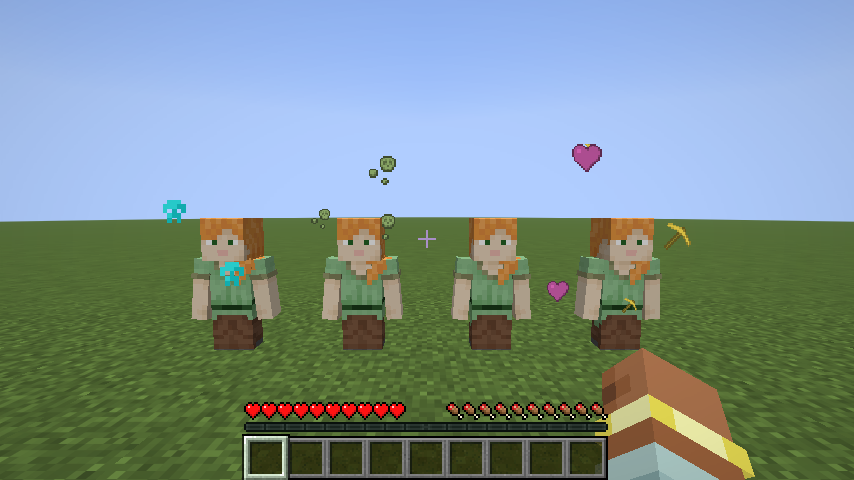
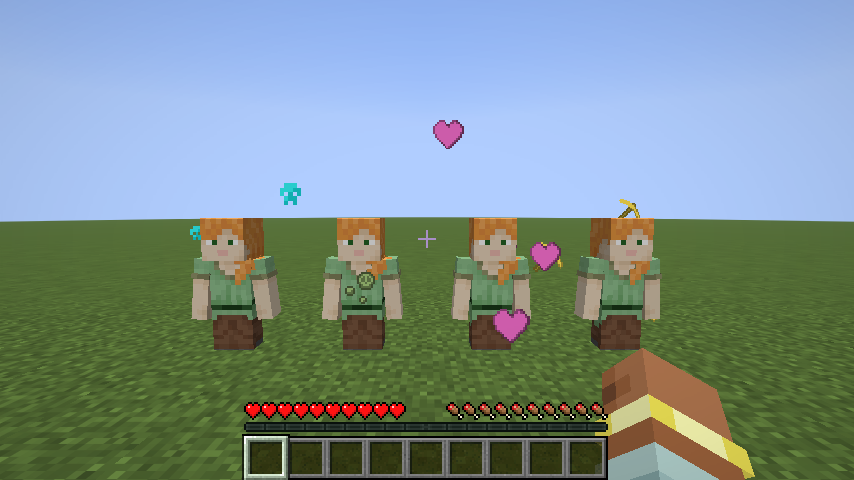
Even out brightness between effect particles
The share of pixels that get the brightest shade is now the same for
every icon (about 27%, matching the poison skull), instead of depending
on how many bright pixels the icon has.

Claude-Session: https://claude.ai/code/session_01DmfJ6GWNpEMpXSEm8h2UnA

diff --git a/src/client/java/com/qmftm/quantumparticleeffect/EffectSilhouetteSource.java b/src/client/java/com/qmftm/quantumparticleeffect/EffectSilhouetteSource.java
@@ -40,12 +40,18 @@ public final class EffectSilhouetteSource implements SpriteSource {
 		ARGB.color(255, 255, 255, 255)
 	};
 	/**
-	 * A pixel gets the next brighter shade when it reaches this fraction of the icon's own brightness range
-	 * (darkest to brightest pixel). Using the icon's range instead of fixed values keeps small details,
-	 * like the eyes of the poison skull, visible on dark and bright icons alike.
+	 * Share of an icon's pixels that get the brightest shade (about 27%, which looks right for the poison skull).
+	 * Every icon is scaled to this, so effects look equally bright instead of depending on how
+	 * many bright pixels their icon happens to have.
 	 */
-	private static final float[] THRESHOLDS = {0.18F, 0.38F, 0.58F};
-	/** Ignore this share of the darkest and brightest pixels when finding the range, so a single highlight does not flatten the icon. */
+	private static final float BRIGHT_SHARE = 0.27F;
+	/**
+	 * A pixel gets the next brighter shade when it reaches this fraction of the way from the darkest pixel
+	 * to the brightness where the brightest shade starts. Measured from the icon itself, so small details,
+	 * like the eyes of the poison skull, stay visible on dark and bright icons alike.
+	 */
+	private static final float[] THRESHOLDS = {0.31F, 0.66F, 1.0F};
+	/** Ignore this share of the darkest pixels when finding the range, so a single dark pixel does not flatten the icon. */
 	private static final float RANGE_CLIP = 0.02F;
 
 	private static final FileToIdConverter ICONS = new FileToIdConverter("textures/mob_effect", ".png");
@@ -99,8 +105,8 @@ public final class EffectSilhouetteSource implements SpriteSource {
 		}
 		filled.sort(null);
 		float low = filled.get((int) (filled.size() * RANGE_CLIP));
-		float high = filled.get(Math.min(filled.size() - 1, (int) (filled.size() * (1.0F - RANGE_CLIP))));
-		float span = Math.max(high - low, 1.0F);
+		float brightStart = filled.get(Math.min(filled.size() - 1, (int) (filled.size() * (1.0F - BRIGHT_SHARE))));
+		float span = Math.max(brightStart - low, 1.0F);
 		for (int i = 0; i < brightness.length; i++) {
 			if (brightness[i] >= 0) {
 				int shade = 0;

diff --git a/README.md b/README.md
@@ -17,7 +17,7 @@
 효과 `<네임스페이스>:<이름>`마다 아래 순서로 찾아요.
 
 1. **리소스팩 전용 텍스처**: `assets/<네임스페이스>/particles/effect/<이름>.json`이 있으면 그 텍스처를 써요. 기본 파티클처럼 포션 색을 덧입혀요.
-2. **효과 아이콘 실루엣**: 인벤토리 효과 아이콘(`textures/mob_effect/<이름>.png`)을 게임이 텍스처를 불러올 때 원래 해상도(기본 18×18) 그대로 회색 4단계로 바꿔서 써요. 단계는 아이콘 안에서 상대적인 밝기로 정해서, 독의 해골 얼굴 같은 작은 디테일이 잘 보여요. 고해상도 리소스팩 아이콘도 그 해상도대로 나와요. 여기에 포션 색을 입혀요. 다른 모드의 효과도 아이콘만 있으면 자동으로 되고, 리소스팩으로 아이콘을 바꾸면 파티클도 같이 바뀌어요.
+2. **효과 아이콘 실루엣**: 인벤토리 효과 아이콘(`textures/mob_effect/<이름>.png`)을 게임이 텍스처를 불러올 때 원래 해상도(기본 18×18) 그대로 회색 4단계로 바꿔서 써요. 단계는 아이콘 안에서 상대적인 밝기로 정하고, 모든 아이콘에서 가장 밝은 단계가 차지하는 비율(약 27%)을 맞춰서 효과끼리 밝기가 비슷해요. 독의 해골 얼굴 같은 작은 디테일도 잘 보여요. 고해상도 리소스팩 아이콘도 그 해상도대로 나와요. 여기에 포션 색을 입혀요. 다른 모드의 효과도 아이콘만 있으면 자동으로 되고, 리소스팩으로 아이콘을 바꾸면 파티클도 같이 바뀌어요.
 3. 둘 다 없으면 기본 파티클이 나와요.
 
 ## 리소스팩으로 파티클만 따로 바꾸기
